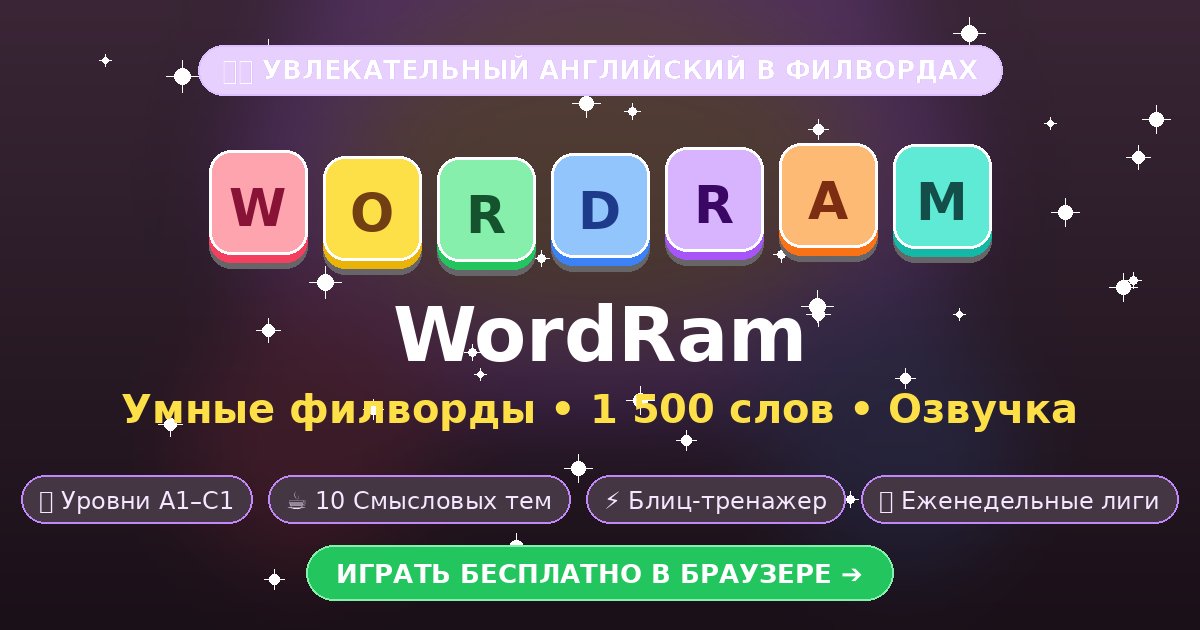
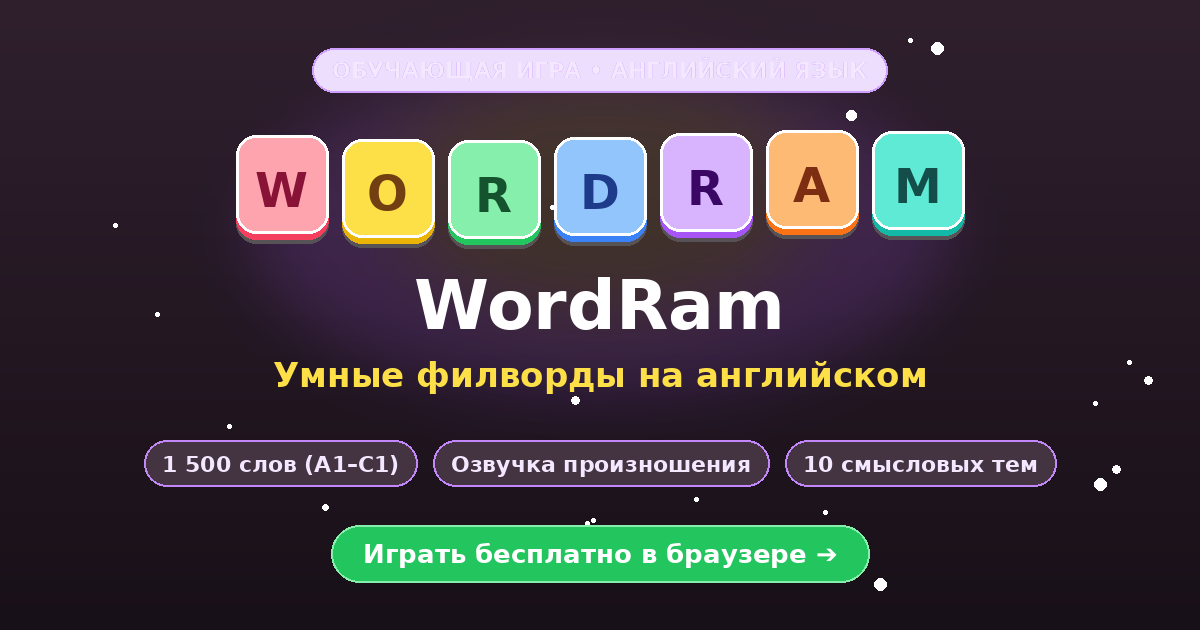
Add files via upload

diff --git a/index.html b/index.html
@@ -31,7 +31,7 @@
   <meta property="og:type" content="website">
   <meta property="og:url" content="https://granonim.github.io/WordRam/">
   <meta property="og:title" content="WordRam — Английские филворды">
-  <meta property="og:description" content="Изучай 1 500 английских слов (A1–C1) с живой озвучкой произношения 🔊 и тематическими уровнями!">
+  <meta property="og:description" content="Умные филворды для изучения 1 500 английских слов (A1–C1) с озвучкой произношения и словарем!">
   <meta property="og:image" content="https://granonim.github.io/WordRam/og-image.png">
   <meta property="og:image:width" content="1200">
   <meta property="og:image:height" content="630">
@@ -43,10 +43,10 @@
   <meta name="twitter:image" content="https://granonim.github.io/WordRam/og-image.png">
 
   <!-- Icons -->
-  <link rel="manifest" href="manifest.webmanifest?v=37">
-  <link rel="icon" type="image/svg+xml" href="favicon.svg?v=37">
-  <link rel="apple-touch-icon" href="icon-192.png?v=37">
-  <link rel="stylesheet" href="styles.css?v=37">
+  <link rel="manifest" href="manifest.webmanifest?v=38">
+  <link rel="icon" type="image/svg+xml" href="favicon.svg?v=38">
+  <link rel="apple-touch-icon" href="icon-192.png?v=38">
+  <link rel="stylesheet" href="styles.css?v=38">
 </head>
 <body>
   <div id="app">
@@ -80,6 +80,7 @@
         <!-- Плашка текущего набираемого слова -->
         <div class="preview-wrapper">
           <div id="word-preview" class="word-preview-box"></div>
+          <div id="game-floating-toast" class="game-mid-toast"></div>
         </div>
 
         <!-- Игровое поле с тактильными 3D плитками и SVG соединителем -->
@@ -503,10 +504,10 @@
     </div>
 
   <!-- Подключение скриптов с версионированием -->
-  <script src="data.js?v=37"></script>
-  <script src="storage.js?v=37"></script>
-  <script src="generator.js?v=37"></script>
-  <script src="game.js?v=37"></script>
-  <script src="main.js?v=37"></script>
+  <script src="data.js?v=38"></script>
+  <script src="storage.js?v=38"></script>
+  <script src="generator.js?v=38"></script>
+  <script src="game.js?v=38"></script>
+  <script src="main.js?v=38"></script>
 </body>
 </html>

diff --git a/styles.css b/styles.css
@@ -2104,3 +2104,65 @@ html, body {
   max-width: min(88vw, 360px);
   margin-top: 2px;
 }
+
+
+/* Mid-Screen Toast (Между слотами и полем - не перекрывает тему и шапку v38) */
+.preview-wrapper {
+  min-height: 32px !important;
+  display: flex !important;
+  align-items: center !important;
+  justify-content: center !important;
+  position: relative !important;
+  width: 100% !important;
+  max-width: 360px !important;
+  margin: 2px 0 4px 0 !important;
+}
+
+.game-mid-toast {
+  position: absolute;
+  top: 50%;
+  left: 50%;
+  transform: translate(-50%, -50%) scale(0.8);
+  background: rgba(31, 21, 30, 0.96);
+  color: #ffffff;
+  padding: 5px 16px;
+  border-radius: 16px;
+  font-size: 0.85rem;
+  font-weight: 800;
+  opacity: 0;
+  pointer-events: none;
+  white-space: nowrap;
+  box-shadow: 0 4px 12px rgba(0, 0, 0, 0.45);
+  border: 1.5px solid #a855f7;
+  transition: all 0.2s cubic-bezier(0.175, 0.885, 0.32, 1.275);
+  z-index: 20;
+}
+
+.game-mid-toast.show {
+  opacity: 1 !important;
+  transform: translate(-50%, -50%) scale(1) !important;
+}
+
+.game-mid-toast.toast-success {
+  background: linear-gradient(135deg, #15803d 0%, #166534 100%);
+  border-color: #4ade80;
+  color: #ffffff;
+}
+
+.game-mid-toast.toast-bonus {
+  background: linear-gradient(135deg, #b45309 0%, #92400e 100%);
+  border-color: #fde047;
+  color: #ffffff;
+}
+
+.game-mid-toast.toast-warning {
+  background: #dc2626;
+  border-color: #f87171;
+  color: #ffffff;
+}
+
+.game-mid-toast.toast-info {
+  background: #3b0764;
+  border-color: #c084fc;
+  color: #f3e8ff;
+}

diff --git a/sw.js b/sw.js
@@ -1,22 +1,23 @@
 /**
- * WordRam - Service Worker (v34)
- * Адаптивное игровое поле без скролла, брендовый Open Graph баннер 1200x630,
- * перенос прогресса между устройствами, 1 500 слов CEFR, Яндекс Метрика, PWA и оффлайн.
+ * WordRam - Service Worker (v38)
+ * Уведомления между слотами и полем (не перекрывают тему),
+ * подсказка при первом угаданном слове, минималистичный баннер (кириллица),
+ * 1 500 слов CEFR, Яндекс Метрика, PWA и оффлайн.
  */
 
-const CACHE_NAME = "wordram-v37";
+const CACHE_NAME = "wordram-v38";
 const ASSETS_TO_CACHE = [
   "./",
   "./index.html",
-  "./styles.css?v=37",
-  "./data.js?v=37",
-  "./storage.js?v=37",
-  "./generator.js?v=37",
-  "./game.js?v=37",
-  "./main.js?v=37",
-  "./manifest.webmanifest?v=37",
+  "./styles.css?v=38",
+  "./data.js?v=38",
+  "./storage.js?v=38",
+  "./generator.js?v=38",
+  "./game.js?v=38",
+  "./main.js?v=38",
+  "./manifest.webmanifest?v=38",
   "./logo.svg",
-  "./favicon.svg?v=37",
+  "./favicon.svg?v=38",
   "./icon-192.png",
   "./icon-512.png",
   "./og-image.png"

diff --git a/game.js b/game.js
@@ -644,6 +644,14 @@ class WordRamGame {
           });
         }
 
+                if (!this.storage.state.hasSeenWordClickHint) {
+          this.storage.state.hasSeenWordClickHint = true;
+          this.storage.save();
+          setTimeout(() => {
+            this.showFloatingMessage("💡 Нажмите на найденное слово в слоте для перевода и озвучки!", "info");
+          }, 1800);
+        }
+
         if (this.foundWords.length > 0 && this.foundWords.length === this.levelData.words.length) {
           this.handleLevelWin();
           return;
@@ -798,6 +806,17 @@ class WordRamGame {
   }
 
   showFloatingMessage(text, type = "info") {
+    const midToast = document.getElementById("game-floating-toast");
+    if (midToast && !this.isGameOver) {
+      midToast.textContent = text;
+      midToast.className = `game-mid-toast toast-${type} show`;
+      if (this.midToastTimer) clearTimeout(this.midToastTimer);
+      this.midToastTimer = setTimeout(() => {
+        midToast.className = `game-mid-toast toast-${type}`;
+      }, 1600);
+      return;
+    }
+
     const toast = document.createElement("div");
     toast.className = `game-toast toast-${type}`;
     toast.textContent = text;

diff --git a/storage.js b/storage.js
@@ -6,7 +6,7 @@
 
 class WordRamStorage {
   constructor() {
-    this.STORAGE_KEY = "wordram_v37_save";
+    this.STORAGE_KEY = "wordram_v38_save";
     this.state = this.load();
   }
 
@@ -18,6 +18,7 @@ class WordRamStorage {
       xp: 300,
       weeklyXp: 45,
       hasCompletedPlacementTest: false,
+      hasSeenWordClickHint: false,
       collectedWords: {},           // { "BEAUTIFUL": { count: 1, firstSeen: "...", mastery: 1 } }
       unlockedAchievements: [],    // ["first_words", ...]
       claimedDailyRewards: {},      // { "1": "2026-08-24" }
